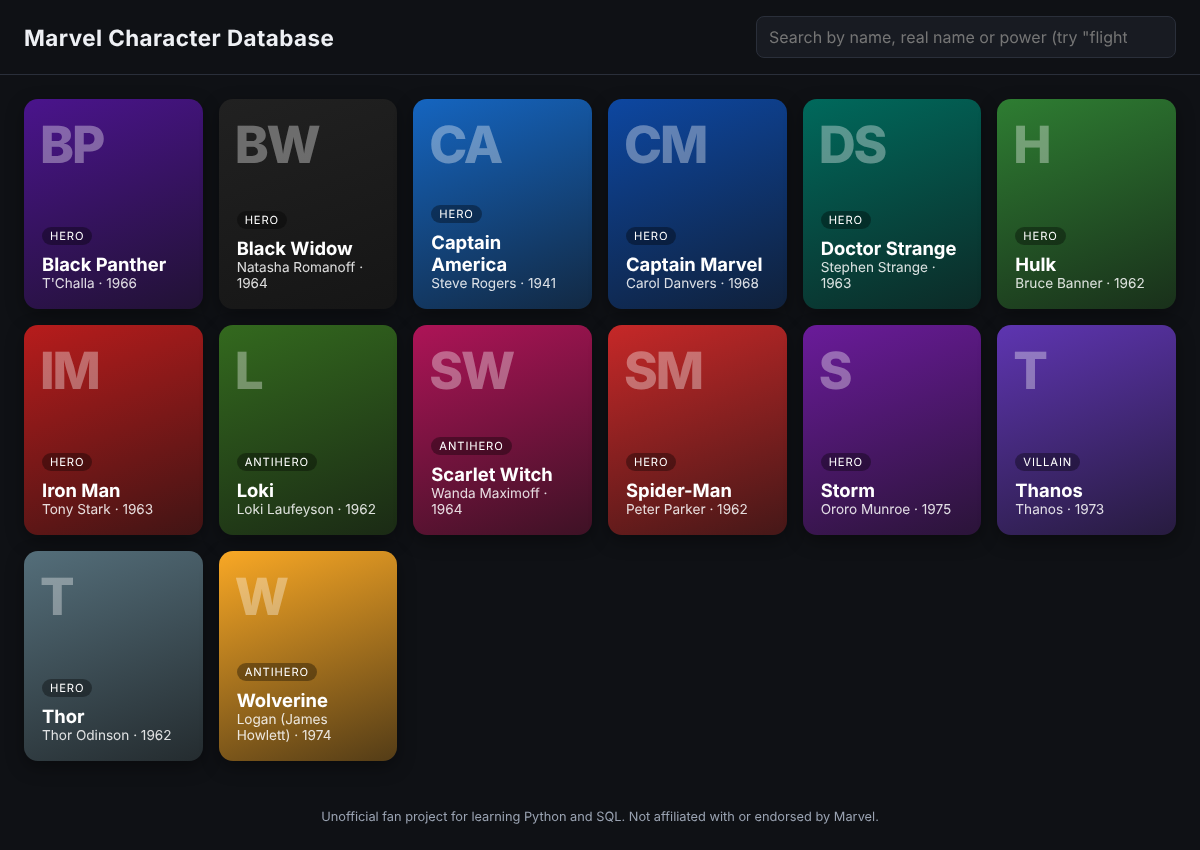
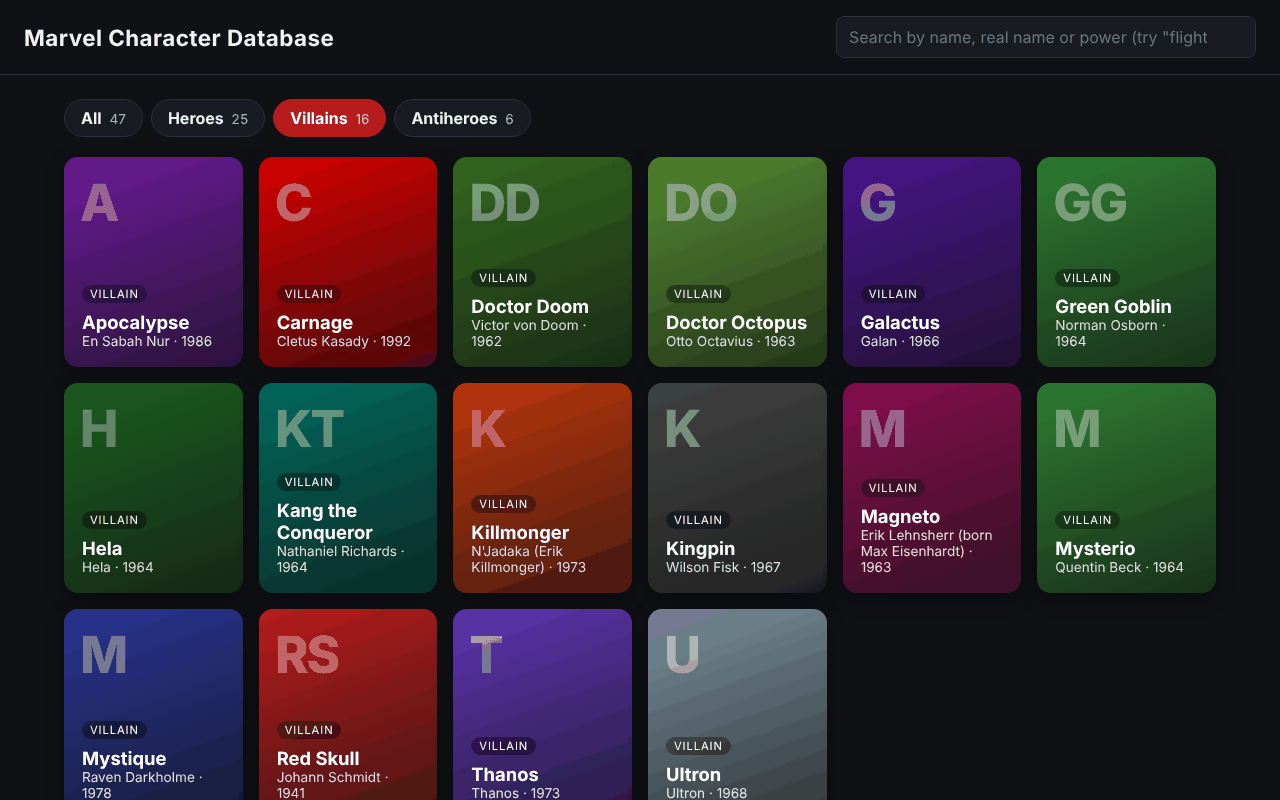
Add Deadpool, Punisher, Venom, Mysterio, Killmonger and Carnage; update README and screenshots
47 characters: 25 heroes, 16 villains and 6 antiheroes.

diff --git a/README.md b/README.md
@@ -2,7 +2,7 @@
 
 **▶ [Live demo](https://theoyanvno.github.io/marvel-character-database/)**
 
-A Python + SQL web app for exploring Marvel characters. Type a name, real name or power (try "flight") or click a card. The selected card slides to the side and the character's profile appears next to it: origin, powers, teams, relationships, and a timeline of pop culture highlights.
+A Python + SQL web app for exploring 47 Marvel characters, grouped into **Heroes**, **Villains** and **Antiheroes**. Type a name, real name or power (try "flight"), switch between sections, or click a card. The selected card slides to the side and the character's profile appears next to it: origin, powers, teams, relationships, and a timeline of pop culture highlights.
 
 **Tech:** Python · Flask · SQLite (`sqlite3`) · SQL · vanilla JavaScript · CSS animations · `unittest`
 
@@ -34,6 +34,7 @@ The app's queries live in [`sql/app_queries.sql`](sql/app_queries.sql), loaded b
 - Characters on no team with `LEFT JOIN … IS NULL`
 - Rivalries where both characters are in the database (joining `characters` twice)
 - Years between a character's comic debut and first film with a correlated subquery
+- Search plus an optional side filter in one query: `(name LIKE ? OR …) AND (? = '' OR alignment = ?)`, where an empty side means everyone
 - Debuts per decade with integer math in `GROUP BY`
 
 ## API
@@ -42,6 +43,8 @@ The app's queries live in [`sql/app_queries.sql`](sql/app_queries.sql), loaded b
 |---|---|---|
 | GET | `/api/characters?q=text` | Matching cards (name, real name or power) |
 | GET | `/api/characters/<id>` | Full profile, or 404 |
+| GET | `/api/characters?side=villain` | Only heroes, villains or antiheroes (combine with `q`) |
+| GET | `/api/sides` | How many characters are on each side |
 | GET | `/api/stats` | Counts by alignment, most common powers, debuts per decade |
 
 ## Live demo: the same SQL in the browser
@@ -52,7 +55,7 @@ GitHub Pages can only host static files, so it can't run the Flask server. The l
 2. In the browser, [`static-api.js`](app/static/static-api.js) downloads that database and runs it with [sql.js](https://sql.js.org) (SQLite compiled to WebAssembly).
 3. Both the Flask app and the browser load their queries from the same file, [`sql/app_queries.sql`](sql/app_queries.sql), so the live demo runs exactly the same SQL as the server.
 
-The front end calls one small data layer (`api.cards()` / `api.character()`), so it doesn't need to know which version it's talking to.
+The front end calls one small data layer (`api.cards()`, `api.sides()`, `api.character()`), so it doesn't need to know which version it's talking to.
 
 ## Run it
 
